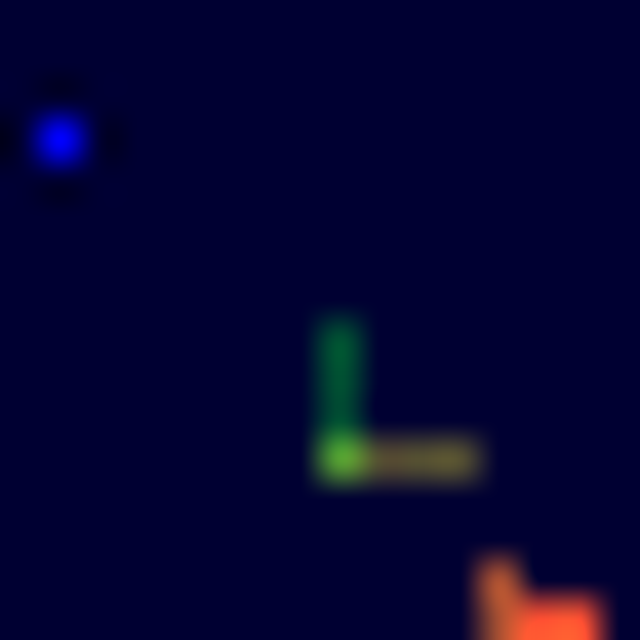
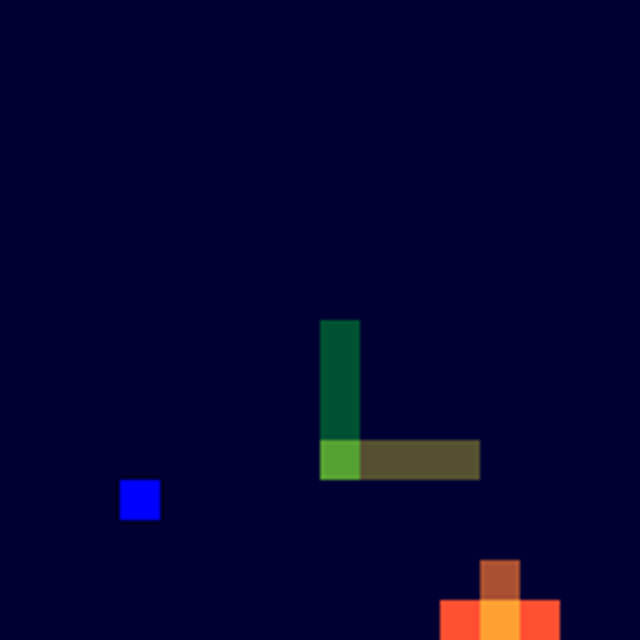
q table in tensor, random explore start

diff --git a/project/reach_avoid_tabular.py b/project/reach_avoid_tabular.py
@@ -1,4 +1,4 @@
-import torch
+import torch, random
 import numpy as np
 from PIL import Image
 
@@ -16,6 +16,9 @@ class Room:
     def add_masks(self, masks:list[tuple[str, bool, torch.Tensor]]):
         self.masks = torch.cat((self.masks, torch.stack([mask[2] for mask in masks])))
         self.labels += [(mask[0], mask[1]) for mask in masks]
+        self.terrain = torch.sum(self.masks, 0)
+        self._avail_locs = [loc for loc in filter(lambda loc: self.terrain[loc[0], loc[1]] == 0,
+            [(r,c) for r in range(self.terrain.shape[0]) for c in range(self.terrain.shape[1])])]
 
     def visual(self):
         c_step = int(255 / (self.masks.shape[0]-1)) if self.masks.shape[0] else 0
@@ -28,11 +31,16 @@ class Room:
             canvas[:, :, 0] += goal * r
             canvas[:, :, 1] += goal * 80
             r += c_step
-        Image.fromarray(np.minimum(canvas, 255).astype(np.uint8), mode="RGB").resize(self._vis_size).save("project/static/room.png")
+        canvas = np.minimum(canvas, 255).astype(np.uint8)
+        Image.fromarray(np.repeat(np.repeat(canvas, 10, axis=1), 10, axis=0), mode="RGB").resize(self._vis_size).save("project/static/room.png")
 
-    def start(self):
-        full_range = torch.tensor(self.shape)/3
-        loc = torch.rand(2,) * full_range
+    def start(self, restricted=False):
+        if restricted:
+            full_range = torch.tensor(self.shape)/3
+            loc = torch.rand(2,) * full_range
+        else:
+            loc = torch.Tensor(random.choice(self._avail_locs))
+
         self.loc = loc.to(dtype=torch.int)
         self.trace = [self.loc]
         return self.loc
@@ -86,14 +94,13 @@ def create_room():
     g0 = torch.zeros(h, w, dtype=torch.bool)
     g0[14:16, 12:13] = 1
     g1 = torch.zeros(h, w, dtype=torch.bool)
-    g1[15:16, 13:15] = 1
+    g1[15:16, 11:14] = 1
     
     room.add_masks([("Danger 0", 2, o0), ("Danger 1", 2, o1), ("Goal 0", 1, g0), ("Goal 1", 1, g1)])
     return room
 
 if __name__ == "__main__":
     room = create_room()
-    room.start()
     for i in range(5):
         room.step(2)
     for i in range(4):

diff --git a/project/boolean_task.py b/project/boolean_task.py
@@ -1,7 +1,6 @@
 import numpy as np
 import matplotlib.pyplot as plt
 import random
-from collections import defaultdict
 from reach_avoid_tabular import torch, Room, create_room
 
 class GoalOrientedQLearning:
@@ -27,17 +26,17 @@ class GoalOrientedQLearning:
         
         # Q-table: state, subgoal, action -> value
         # State is (x, y), subgoal is (x, y)
-        self.Q = defaultdict(float)
+        self.Q = torch.zeros(room.shape+room.shape+(8,))
         # Set of visited states that can serve as subgoals
         self.G = set()
         
     def get_q_value(self, state, subgoal, action):
         """Get Q-value for a state-subgoal-action triple."""
-        return self.Q[((state[0], state[1]), (subgoal[0], subgoal[1]), action)]
+        return self.Q[state[0], state[1], subgoal[0], subgoal[1], action].item()
     
     def update_q_value(self, state, subgoal, action, value):
         """Update Q-value for a state-subgoal-action triple."""
-        self.Q[((state[0], state[1]), (subgoal[0], subgoal[1]), action)] = value
+        self.Q[state[0], state[1], subgoal[0], subgoal[1], action] = value
     
     def select_action(self, state):
         """Select an action using epsilon-greedy policy."""
@@ -57,7 +56,6 @@ class GoalOrientedQLearning:
                 action_values[max_q_value] = [action]
             else:
                 action_values[max_q_value].append(action)
-        
         best_actions = action_values[max(action_values.keys())]
         return best_actions[0] if len(best_actions) == 1 else random.choice(best_actions)
     
